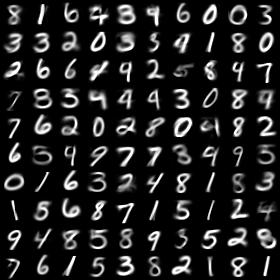
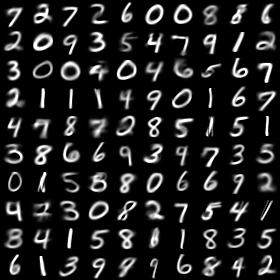
trained and inferred on our dataset

diff --git a/inference.py b/inference.py
@@ -6,6 +6,7 @@ from mfa import MFA
 from utils import *
 from imageio import imwrite
 from tqdm import tqdm
+from datasets import mnist_train_val_datasets, celeba_train_val_datasets
 
 """
 Examples for inference using the trained MFA model - likelihood evaluation and (conditional) reconstruction
@@ -29,11 +30,12 @@ if __name__ == "__main__":
         num_iterations = 10             # Number of EM iterations (=epochs)
         feature_sampling = 0.2          # For faster responsibilities calculation, randomly sample the coordinates (or False)
         mfa_sgd_epochs = 0              # Perform additional training with diagonal (per-pixel) covariance, using SGD
-        trans = transforms.Compose([CropTransform((25, 50, 25+128, 50+128)), transforms.Resize(image_shape[0]),
-                                    transforms.ToTensor(),  ReshapeTransform([-1])])
-        test_dataset = CelebA(root='./data', split='test', transform=trans, download=True)
+        # trans = transforms.Compose([CropTransform((25, 50, 25+128, 50+128)), transforms.Resize(image_shape[0]),
+        #                             transforms.ToTensor(),  ReshapeTransform([-1])])
+        # test_dataset = CelebA(root='./data', split='test', transform=trans, download=True)
         # The train set has more interesting outliers...
         # test_dataset = CelebA(root='./data', split='train', transform=trans, download=True)
+        train_dataset, test_dataset = mnist_train_val_datasets(with_mask=True)
     elif dataset == 'mnist':
         image_shape = [28, 28]  # The input image shape
         n_components = 50  # Number of components in the mixture model
@@ -43,13 +45,16 @@ if __name__ == "__main__":
         feature_sampling = False  # For faster responsibilities calculation, randomly sample the coordinates (or False)
         mfa_sgd_epochs = 0  # Perform additional training with diagonal (per-pixel) covariance, using SGD
         # init_method = 'kmeans'  # Initialize by using k-means clustering
-        trans = transforms.Compose([transforms.ToTensor(), ReshapeTransform([-1])])
-        # train_set = MNIST(root='./data', train=True, transform=trans, download=True)
-        test_dataset = MNIST(root='./data', train=False, transform=trans, download=True)
+        # trans = transforms.Compose([transforms.ToTensor(), ReshapeTransform([-1])])
+        # # train_set = MNIST(root='./data', train=True, transform=trans, download=True)
+        # test_dataset = MNIST(root='./data', train=False, transform=trans, download=True)
+        train_dataset, test_dataset = mnist_train_val_datasets(with_mask=True)
+
     else:
         assert False, 'Unknown dataset: ' + dataset
 
     device = torch.device('cuda') if torch.cuda.is_available() else torch.device('cpu')
+    device = torch.device("cpu")
     model_dir = './models/' + dataset
     figures_dir = './figures/' + dataset
     os.makedirs(figures_dir, exist_ok=True)
@@ -78,23 +83,38 @@ if __name__ == "__main__":
 
     if reconstruction:
         print('Reconstructing images from the trained model...')
-        random_samples, _ = zip(*[test_dataset[k] for k in RandomSampler(test_dataset, replacement=True, num_samples=100)])
+        random_samples_with_masks, _ = zip(*[test_dataset[k] for k in RandomSampler(test_dataset, replacement=True, num_samples=100)])
+
+        random_samples = [
+            rs[0] for rs in random_samples_with_masks
+        ]
+        masks = [
+            rs[1] for rs in random_samples_with_masks
+        ]
+
         random_samples = torch.stack(random_samples)
+        masks = torch.stack(masks)
+        # print(random_samples.shape, mask.shape)
 
         if inpainting:
             if dataset == "mnist":
                 # Hide part of each image
-                w = image_shape[0]
-                mask = np.ones([w, w], dtype=np.float32)
-                # mask[:, w//4:-w//4, w//4:-w//4] = 0
-                # mask[:, w // 2:] = 0
-                mask[3:w // 2+3, 3:w // 2+3] = 0
-                mask = torch.from_numpy(mask.flatten()).reshape([1, -1])
+
                 original_full_samples = random_samples.clone()
-                random_samples *= mask
-                used_features = torch.nonzero(mask.flatten()).flatten()
-                reconstructed_samples, means_samples, A_samples, D_samples, reconstructed_A = model.conditional_reconstruct(random_samples.to(device),
-                                                                      observed_features=used_features, original_full_samples = original_full_samples)#.cpu()
+                random_samples *= masks
+
+                reconstructed_samples = []
+                for samp, msk, orig, in tqdm(zip(random_samples, masks, original_full_samples)):
+                    used_features = torch.nonzero(msk.flatten()).flatten()
+
+                    rec_samp, means_samples, A_samples, D_samples, reconstructed_A, log_likelihood = model.conditional_reconstruct(
+                        samp.to(device).unsqueeze(0),
+                        observed_features=used_features, 
+                        original_full_samples = orig.unsqueeze(0)
+                    )#.cpu()
+
+                    reconstructed_samples.append(rec_samp)
+                reconstructed_samples = torch.stack(reconstructed_samples).squeeze()
 
             else:
                 # Hide part of each image
@@ -111,7 +131,7 @@ if __name__ == "__main__":
             reconstructed_samples = model.reconstruct(random_samples.to(device)).cpu()
 
         if inpainting:
-            reconstructed_samples = random_samples * mask + reconstructed_samples * (1 - mask)
+            reconstructed_samples = random_samples * masks + reconstructed_samples * (1 - masks)
 
         mosaic_original = samples_to_mosaic(random_samples, image_shape=image_shape)
         imwrite(os.path.join(figures_dir, 'original_samples.jpg'), mosaic_original)

diff --git a/datasets.py b/datasets.py
@@ -92,12 +92,20 @@ def mnist_train_val_datasets(
 
 
     if with_mask:
-        train_transform.append(
+        train_transform.extend([
             tr.Lambda(
                 random_mask_fn(mask_configs=mask_configs, deterministic=True)
+            ),
+            tr.Lambda(
+                lambda x_j: (x_j[0].reshape(-1), x_j[1].reshape(-1))
+            )
+        ])
+    else:
+        train_transform.append(
+            tr.Lambda(
+                lambda x: x.reshape(-1)
             )
         )
-
 
     train_transform = tr.Compose(
         train_transform
@@ -106,7 +114,7 @@ def mnist_train_val_datasets(
     val_transform = [base_transform]
 
     if with_mask:
-        val_transform.append(
+        val_transform.extend([
             tr.Lambda(
                 random_mask_fn(
                     mask_configs=[
@@ -116,8 +124,19 @@ def mnist_train_val_datasets(
                     ],  # only the mask which will be inpainted
                     deterministic=True,
                 )
+            ),
+            tr.Lambda(
+                lambda x_j: (x_j[0].reshape(-1), x_j[1].reshape(-1))
+            )
+        ])
+    else:
+        val_transform.append(
+            tr.Lambda(
+                lambda x: x.reshape(-1)
             )
         )
+    
+
     val_transform = tr.Compose(val_transform)
 
     ds_train = ds_type(save_path, train=True, download=True, transform=train_transform)
@@ -133,7 +152,7 @@ DEFAULT_CELEBA_MASK_CONFIGS = (
 
 
 def celeba_train_val_datasets(
-        save_path: Path,
+        save_path: Path = Path("/home/mprzewiezlikowski/uj/.data/"),
         mask_configs: Sequence[RandomRectangleMaskConfig] = DEFAULT_CELEBA_MASK_CONFIGS,
         resize_size: Tuple[int, int] = (120, 120),
         crop_size: Tuple[int, int] = (64, 64),
@@ -151,30 +170,53 @@ def celeba_train_val_datasets(
     train_transform = [
         base_transform
     ]
+
+
     if with_mask:
-        train_transform.append(
+        train_transform.extend([
             tr.Lambda(
                 random_mask_fn(mask_configs=mask_configs, deterministic=True)
+            ),
+            tr.Lambda(
+                lambda x_j: (x_j[0].reshape(-1), x_j[1].reshape(-1))
+            )
+        ])
+    else:
+        train_transform.append(
+            tr.Lambda(
+                lambda x: x.reshape(-1)
             )
         )
 
-    train_transform = tr.Compose(train_transform)
+    train_transform = tr.Compose(
+        train_transform
+    )
 
-    val_transform = [
-        base_transform,
-    ]
+    val_transform = [base_transform]
 
     if with_mask:
-        val_transform.append(
+        val_transform.extend([
             tr.Lambda(
                 random_mask_fn(
                     mask_configs=[
-                        m for m in mask_configs if m.value == UNKNOWN_LOSS
+                        m
+                        for m in mask_configs
+                        if m.value == UNKNOWN_LOSS or m.value == KNOWN
                     ],  # only the mask which will be inpainted
-                    deterministic=False,
+                    deterministic=True,
                 )
+            ),
+            tr.Lambda(
+                lambda x_j: (x_j[0].reshape(-1), x_j[1].reshape(-1))
+            )
+        ])
+    else:
+        val_transform.append(
+            tr.Lambda(
+                lambda x: x.reshape(-1)
             )
         )
+    
 
     val_transform = tr.Compose(val_transform)
 

diff --git a/train.py b/train.py
@@ -8,7 +8,7 @@ from utils import CropTransform, ReshapeTransform, samples_to_mosaic, visualize_
 from matplotlib import pyplot as plt
 from imageio import imwrite
 from packaging import version
-
+from datasets import mnist_train_val_datasets, celeba_train_val_datasets
 """
 MFA model training (data fitting) example.
 Note that actual EM (and SGD) training code are part of the MFA class itself.
@@ -30,10 +30,11 @@ def main(argv):
         feature_sampling = 0.2          # For faster responsibilities calculation, randomly sample the coordinates (or False)
         mfa_sgd_epochs = 0              # Perform additional training with diagonal (per-pixel) covariance, using SGD
         init_method = 'rnd_samples'   # Initialize each component from few random samples using PPCA
-        trans = transforms.Compose([CropTransform((25, 50, 25+128, 50+128)), transforms.Resize(image_shape[0]),
-                                    transforms.ToTensor(),  ReshapeTransform([-1])])
-        train_set = CelebA(root='./data', split='train', transform=trans, download=True)
-        test_set = CelebA(root='./data', split='test', transform=trans, download=True)
+        # trans = transforms.Compose([CropTransform((25, 50, 25+128, 50+128)), transforms.Resize(image_shape[0]),
+        #                             transforms.ToTensor(),  ReshapeTransform([-1])])
+        # train_set = CelebA(root='./data', split='train', transform=trans, download=True)
+        # test_set = CelebA(root='./data', split='test', transform=trans, download=True)
+        train_set, test_set = celeba_train_val_datasets(with_mask=False)
     elif dataset == 'mnist':
         image_shape = [28, 28]          # The input image shape
         n_components = 50               # Number of components in the mixture model
@@ -43,11 +44,14 @@ def main(argv):
         feature_sampling = False       # For faster responsibilities calculation, randomly sample the coordinates (or False)
         mfa_sgd_epochs = 0              # Perform additional training with diagonal (per-pixel) covariance, using SGD
         init_method = 'kmeans'         # Initialize by using k-means clustering
-        trans = transforms.Compose([transforms.ToTensor(),  ReshapeTransform([-1])])
-        train_set = MNIST(root='./data', train=True, transform=trans, download=True)
-        test_set = MNIST(root='./data', train=False, transform=trans, download=True)
+        # trans = transforms.Compose([transforms.ToTensor(),  ReshapeTransform([-1])])
+        # train_set = MNIST(root='./data', train=True, transform=trans, download=True)
+        # test_set = MNIST(root='./data', train=False, transform=trans, download=True)
+        train_set, test_set = mnist_train_val_datasets(with_mask=False)
+
     else:
         assert False, 'Unknown dataset: ' + dataset
+
 
     device = torch.device('cuda') if torch.cuda.is_available() else torch.device('cpu')
     model_dir = './models/'+dataset

diff --git a/mfa.py b/mfa.py
@@ -223,7 +223,8 @@ class MFA(torch.nn.Module):
         log_likelihood = self.log_likelihood_missing(original_full_samples[:, ~mask], x_hat[:, ~mask], C, torch.log(D_a))
 
         #Sigma = C @ C.transpose(1,2) + D_a - wyestymowane Sigma
-        #kolejno zwracam: wypełnienie brakujących sampli średnimi, średnie, A dla Sigma, D dla Sigma, wypełenienie pełnych A poprzez wyestymowane A (powiększone o 0.5)
+        #kolejno zwracam: 
+        # wypełnienie brakujących sampli średnimi, średnie, A dla Sigma, D dla Sigma, wypełenienie pełnych A poprzez wyestymowane A (powiększone o 0.5)
         return x_hat, x_hat[:, ~mask], C, D_a, 0.5 + A_hat, log_likelihood
 
     def reconstruct(self, full_x, observed_features=None):
